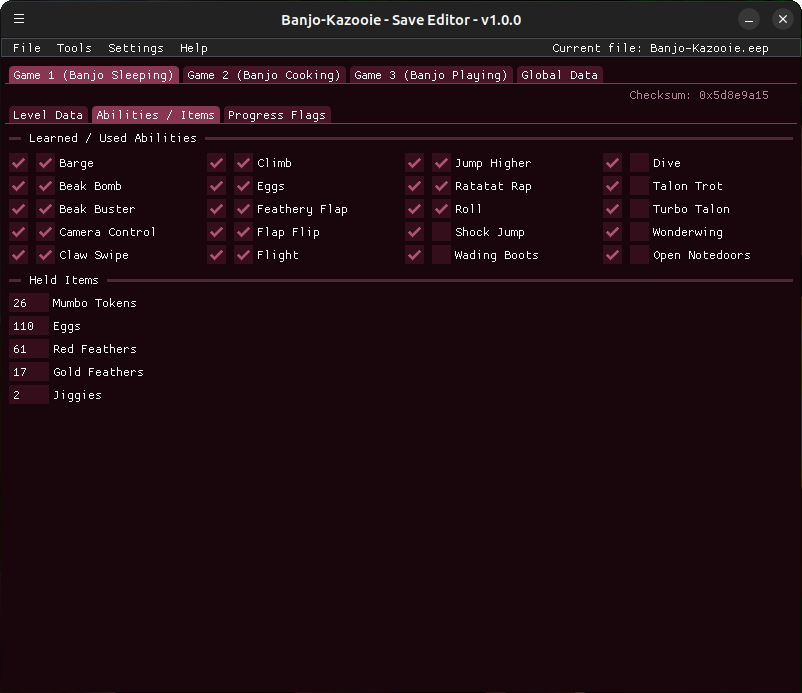
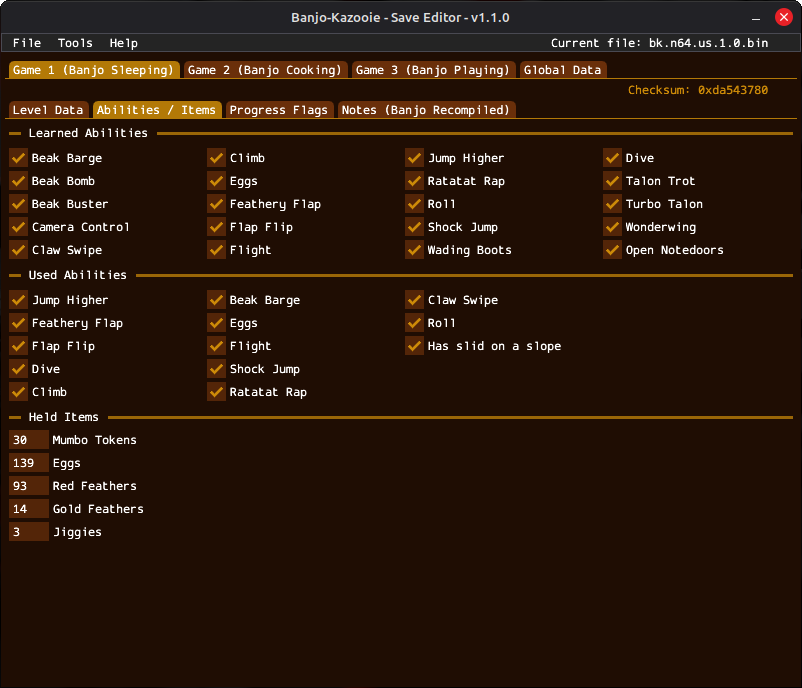
Updated README and screenshots.

Changed region(s): [[0.0, 0.0, 1.0, 0.7936]]

diff --git a/README.md b/README.md
@@ -1,14 +1,14 @@
 # Banjo-Kazooie - Save Editor
 
-This is a Banjo-Kazooie cross-platform save editor. It is able to edit mostly everything of a save file from the Nintendo 64 version.
+This is a Banjo-Kazooie cross-platform save editor. It is able to edit mostly everything of a save file from the Nintendo 64 version and the Banjo Recompiled PC port.
 
 ## Requirements
 
-The program runs on Windows and Linux and requires a GPU compatible with OpenGL 3.3.
+The program runs on Windows and Linux and requires a GPU compatible with Vulkan or Direct3D 12.
 
 ## Features
 
-- It can edit save files from the Nintendo 64 version of the game.
+- It can edit save files from the Nintendo 64 and Banjo Recompiled PC versions of the game.
 - It can edit pretty much everything, except probably some still unknown stuff.
 - It can copy and delete save slots.
 
@@ -22,3 +22,4 @@ You can check the changelog [here](https://github.com/MaikelChan/BKSaveEditor/bl
 ![](01.png)
 ![](02.png)
 ![](03.png)
+![](04.png)
